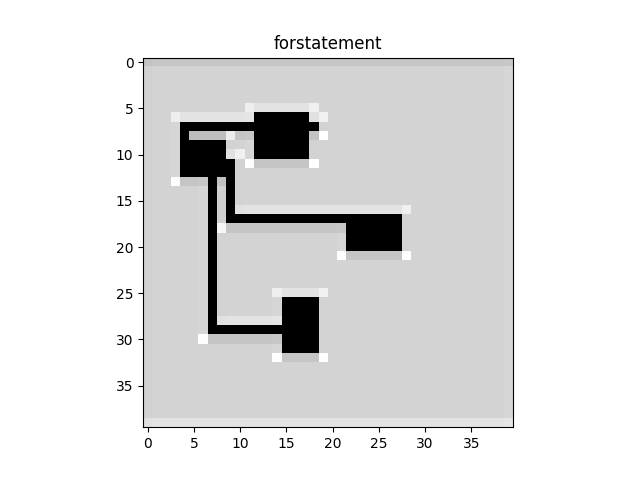
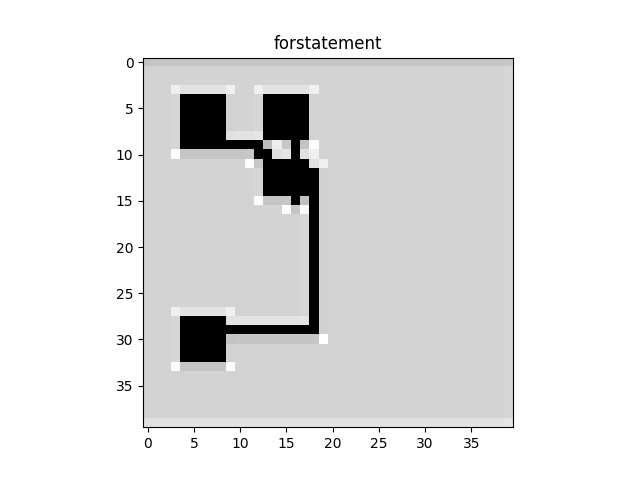
fixed bugs in analyzing while statement and enabled scanning for statement

Changed region(s): [[0.25, 0.1562, 0.6562, 0.7812], [0.25, 0.625, 0.2812, 0.6562], [0.25, 0.375, 0.2812, 0.4062]]

diff --git a/debugger-C/c-backdoor.py b/debugger-C/c-backdoor.py
@@ -332,7 +332,6 @@ def handle_client(conn: socket.socket, addr: tuple[str, int]):
 
         if func_name is None or file_name is None:
             # state_checker(state)
-            print('here')
             return None
         
         print(f"{func_name} at {file_name}:{line_number}")
@@ -379,7 +378,7 @@ def handle_client(conn: socket.socket, addr: tuple[str, int]):
             # 変数は次の行での値を見て考える(まず変数チェッカーで次の行に進み変数の更新を確認) => その行と前の行で構文や関数は比較する(構文内の行の移動及び関数の移動は次の行と前の行が共に必要)
             while process.GetState() == lldb.eStateStopped: 
 
-                if line_data.get(func_name, None) and line_number in line_data[func_name]:
+                if line_data.get(func_name, None) and line_number in line_data[func_name] and not isEnd:
                 # JSONが複数回に分かれて送られてくる可能性があるためパース
                     if (event := event_reciever()) is None:
                         continue
@@ -479,18 +478,6 @@ def handle_client(conn: socket.socket, addr: tuple[str, int]):
                             elif type == 'whileIn':
                                 event_sender({"message": "", "status": "ok"})
 
-                                # その次に条件が真かどうかを確かめる
-                                step_conditionally(frame)
-
-                                if (next_state := get_next_state()):
-                                    line_number = crnt_line_number
-                                    state, frame, file_name, crnt_line_number, func_name = next_state
-                                else:
-                                    isEnd = True
-
-                                vars_changed = varsTracker.trackStart(frame)
-                                vars_checker(vars_changed)
-
                                 # get_std_outputs, state_checkerを入れるかは後々考える
 
                                 while True:
@@ -506,18 +493,6 @@ def handle_client(conn: socket.socket, addr: tuple[str, int]):
                                     event_sender({"message": "NG行動をしました4!!", "status": "ng"})
                             elif type == 'forIn':
                                 event_sender({"message": "", "status": "ok"})
-
-                                # その次に条件が真かどうかを確かめる
-                                step_conditionally(frame)
-
-                                if (next_state := get_next_state()):
-                                    line_number = crnt_line_number
-                                    state, frame, file_name, crnt_line_number, func_name = next_state
-                                else:
-                                    isEnd = True
-
-                                vars_changed = varsTracker.trackStart(frame)
-                                vars_checker(vars_changed)
 
                                 # get_std_outputs, state_checkerを入れるかは後々考える
 
@@ -545,7 +520,6 @@ def handle_client(conn: socket.socket, addr: tuple[str, int]):
                     else:
                         pass
                     
-                print('here')
                 step_conditionally(frame)
 
                 if (next_state := get_next_state()):

diff --git a/mapdata_generator/preprocessed.c b/mapdata_generator/preprocessed.c
@@ -1,15 +1,14 @@
-# 1 "/Users/gakkungt/Desktop/Developing_apps/university/graduate_experiment/rpg-aquatan-C-1/data/whilestatement/whilestatement.c"
+# 1 "/Users/gakkungt/Desktop/Developing_apps/university/graduate_experiment/rpg-aquatan-C-1/data/forstatement/forstatement.c"
 # 1 "<built-in>" 1
 # 1 "<built-in>" 3
 # 418 "<built-in>" 3
 # 1 "<command line>" 1
 # 1 "<built-in>" 2
-# 1 "/Users/gakkungt/Desktop/Developing_apps/university/graduate_experiment/rpg-aquatan-C-1/data/whilestatement/whilestatement.c" 2
+# 1 "/Users/gakkungt/Desktop/Developing_apps/university/graduate_experiment/rpg-aquatan-C-1/data/forstatement/forstatement.c" 2
 int main() {
-  int i = 1, j = 4;
-  while (i--) {
-
-    j += 2;
+  int i, j = 4;
+  for (i = 0; i < 2; i++){
+    j *= 2;
   }
   return j;
 }

diff --git a/data/whilestatement/whilestatement.c b/data/whilestatement/whilestatement.c
@@ -1,5 +1,5 @@
 int main() {
-  int i = 1, j = 4;
+  int i = 0, j = 4;
   while (i--) {
 
     j += 2;
